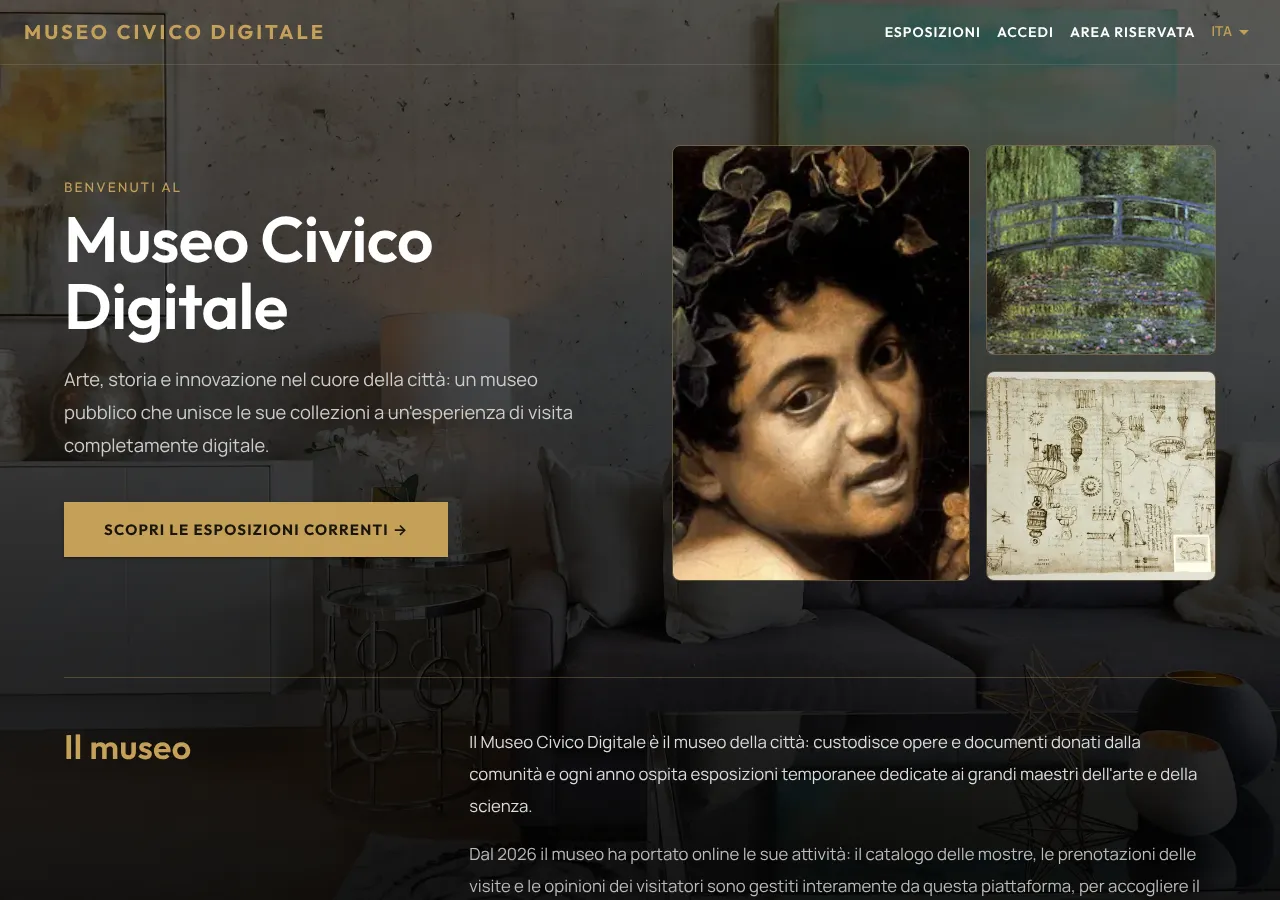
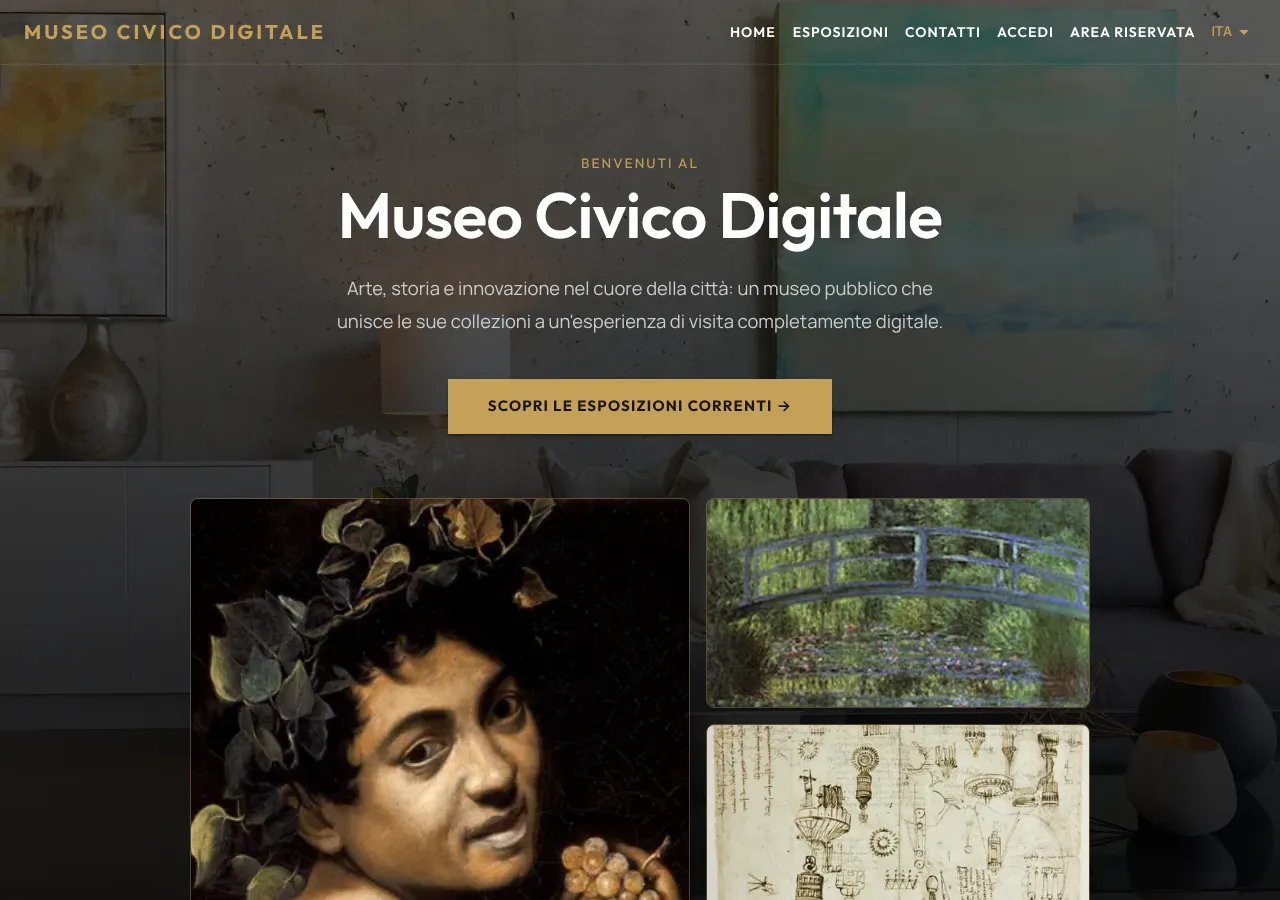
Home: apertura, testi e pulsanti centrati
Claude-Session: https://claude.ai/code/session_01QC7Kf4AB44ao9toWVNQBDz

diff --git a/frontend/src/pages/Home.jsx b/frontend/src/pages/Home.jsx
@@ -3,9 +3,9 @@ import { Container, Typography, Grid, Box, Button, Card, CardContent } from '@mu
 import useLingua from '../hooks/useLingua';
 
 const PUNTI = [
-    { icona: '🖼', titolo: 'home.puntoMostreTitolo', testo: 'home.puntoMostre' },
-    { icona: '🎟', titolo: 'home.puntoPrenotaTitolo', testo: 'home.puntoPrenota' },
-    { icona: '⭐', titolo: 'home.puntoOpinioniTitolo', testo: 'home.puntoOpinioni' },
+    { titolo: 'home.puntoMostreTitolo', testo: 'home.puntoMostre' },
+    { titolo: 'home.puntoPrenotaTitolo', testo: 'home.puntoPrenota' },
+    { titolo: 'home.puntoOpinioniTitolo', testo: 'home.puntoOpinioni' },
 ];
 
 const quadro = {
@@ -17,83 +17,90 @@ const quadro = {
     display: 'block',
 };
 
-// Pagina iniziale: presenta il museo e porta alle esposizioni correnti
+// Pagina iniziale: presenta il museo e porta alle esposizioni correnti (tutto centrato)
 export default function Home() {
     const { t } = useLingua();
 
+    // Box con textAlign center: il pulsante (inline) resta al centro della riga
     const pulsante = (
-        <Button
-            component={Link}
-            to="/esposizioni"
-            variant="contained"
-            color="primary"
-            size="large"
-            sx={{ borderRadius: 0, px: 5, py: 1.8, fontWeight: 700 }}
-        >
-            {t('home.vaiEsposizioni')} →
-        </Button>
+        <Box sx={{ textAlign: 'center' }}>
+            <Button
+                component={Link}
+                to="/esposizioni"
+                variant="contained"
+                color="primary"
+                size="large"
+                sx={{ borderRadius: 0, px: 5, py: 1.8, fontWeight: 700 }}
+            >
+                {t('home.vaiEsposizioni')} →
+            </Button>
+        </Box>
     );
 
     return (
         <Container maxWidth="lg" sx={{ mt: { xs: 5, md: 10 } }}>
-            {/* apertura */}
-            <Grid container spacing={{ xs: 5, md: 8 }} sx={{ alignItems: 'center' }}>
-                <Grid size={{ xs: 12, md: 6 }}>
-                    <Typography variant="overline" sx={{ color: '#c5a059', fontSize: '0.85rem' }}>
-                        {t('home.sopratitolo')}
-                    </Typography>
-                    <Typography
-                        variant="h2"
-                        component="h1"
-                        sx={{ color: '#ffffff', fontSize: { xs: '2.6rem', md: '4rem' }, lineHeight: 1.05, mb: 3 }}
-                    >
-                        {t('home.titolo')}
-                    </Typography>
-                    <Typography sx={{ color: '#cccccc', fontSize: '1.15rem', lineHeight: 1.8, mb: 5, maxWidth: 520 }}>
-                        {t('home.sottotitolo')}
-                    </Typography>
-                    {pulsante}
-                </Grid>
-                <Grid size={{ xs: 12, md: 6 }}>
-                    <Box
-                        sx={{
-                            display: 'grid',
-                            gridTemplateColumns: '1.3fr 1fr',
-                            gridTemplateRows: { xs: '150px 150px', md: '210px 210px' },
-                            gap: 2,
-                        }}
-                        aria-hidden="true"
-                    >
-                        <Box sx={{ gridRow: 'span 2' }}>
-                            <img src="/images/home/caravaggio.webp" alt="" style={quadro} />
-                        </Box>
-                        <img src="/images/home/monet.webp" alt="" style={quadro} />
-                        <img src="/images/home/leonardo-da-vinci.webp" alt="" style={quadro} />
-                    </Box>
-                </Grid>
-            </Grid>
+            {/* apertura: sopratitolo, titolo, sottotitolo e pulsante centrati */}
+            <Box sx={{ textAlign: 'center', maxWidth: 760, mx: 'auto' }}>
+                <Typography variant="overline" component="p" sx={{ color: '#c5a059', fontSize: '0.85rem' }}>
+                    {t('home.sopratitolo')}
+                </Typography>
+                <Typography
+                    variant="h2"
+                    component="h1"
+                    sx={{ color: '#ffffff', fontSize: { xs: '2.6rem', md: '4rem' }, lineHeight: 1.05, mb: 3 }}
+                >
+                    {t('home.titolo')}
+                </Typography>
+                <Typography
+                    sx={{ color: '#cccccc', fontSize: '1.15rem', lineHeight: 1.8, mb: 5, maxWidth: 640, mx: 'auto' }}
+                >
+                    {t('home.sottotitolo')}
+                </Typography>
+            </Box>
+            {pulsante}
+
+            {/* immagini delle collezioni, centrate sotto il pulsante */}
+            <Box
+                sx={{
+                    display: 'grid',
+                    gridTemplateColumns: '1.3fr 1fr',
+                    gridTemplateRows: { xs: '150px 150px', md: '210px 210px' },
+                    gap: 2,
+                    maxWidth: 900,
+                    mx: 'auto',
+                    mt: { xs: 6, md: 8 },
+                }}
+                aria-hidden="true"
+            >
+                <Box sx={{ gridRow: 'span 2' }}>
+                    <img src="/images/home/caravaggio.webp" alt="" style={quadro} />
+                </Box>
+                <img src="/images/home/monet.webp" alt="" style={quadro} />
+                <img src="/images/home/leonardo-da-vinci.webp" alt="" style={quadro} />
+            </Box>
 
             {/* il museo */}
             <Box
                 component="section"
                 aria-labelledby="titolo-museo"
-                sx={{ mt: { xs: 8, md: 12 }, pt: 6, borderTop: '1px solid rgba(197, 160, 89, 0.3)' }}
+                sx={{
+                    mt: { xs: 8, md: 12 },
+                    pt: 6,
+                    borderTop: '1px solid rgba(197, 160, 89, 0.3)',
+                    textAlign: 'center',
+                    maxWidth: 820,
+                    mx: 'auto',
+                }}
             >
-                <Grid container spacing={{ xs: 3, md: 8 }}>
-                    <Grid size={{ xs: 12, md: 4 }}>
-                        <Typography id="titolo-museo" variant="h4" component="h2" sx={{ color: '#c5a059' }}>
-                            {t('home.chiSiamoTitolo')}
-                        </Typography>
-                    </Grid>
-                    <Grid size={{ xs: 12, md: 8 }}>
-                        <Typography sx={{ color: '#dddddd', fontSize: '1.05rem', lineHeight: 1.9, mb: 2 }}>
-                            {t('home.chiSiamo1')}
-                        </Typography>
-                        <Typography sx={{ color: '#bbbbbb', fontSize: '1.05rem', lineHeight: 1.9 }}>
-                            {t('home.chiSiamo2')}
-                        </Typography>
-                    </Grid>
-                </Grid>
+                <Typography id="titolo-museo" variant="h4" component="h2" sx={{ color: '#c5a059', mb: 3 }}>
+                    {t('home.chiSiamoTitolo')}
+                </Typography>
+                <Typography sx={{ color: '#dddddd', fontSize: '1.05rem', lineHeight: 1.9, mb: 2 }}>
+                    {t('home.chiSiamo1')}
+                </Typography>
+                <Typography sx={{ color: '#bbbbbb', fontSize: '1.05rem', lineHeight: 1.9 }}>
+                    {t('home.chiSiamo2')}
+                </Typography>
             </Box>
 
             {/* cosa offre */}
@@ -104,10 +111,7 @@ export default function Home() {
                             elevation={0}
                             sx={{ flex: 1, backdropFilter: 'blur(12px)', border: '1px solid rgba(197, 160, 89, 0.25)' }}
                         >
-                            <CardContent sx={{ p: 4 }}>
-                                <Typography sx={{ fontSize: '1.8rem', mb: 1 }} aria-hidden="true">
-                                    {punto.icona}
-                                </Typography>
+                            <CardContent sx={{ p: 4, textAlign: 'center' }}>
                                 <Typography variant="h6" component="h3" sx={{ color: '#ffffff', mb: 1 }}>
                                     {t(punto.titolo)}
                                 </Typography>
@@ -118,7 +122,7 @@ export default function Home() {
                 ))}
             </Grid>
 
-            <Box sx={{ textAlign: 'center', mt: { xs: 6, md: 9 } }}>{pulsante}</Box>
+            <Box sx={{ mt: { xs: 6, md: 9 } }}>{pulsante}</Box>
         </Container>
     );
 }
